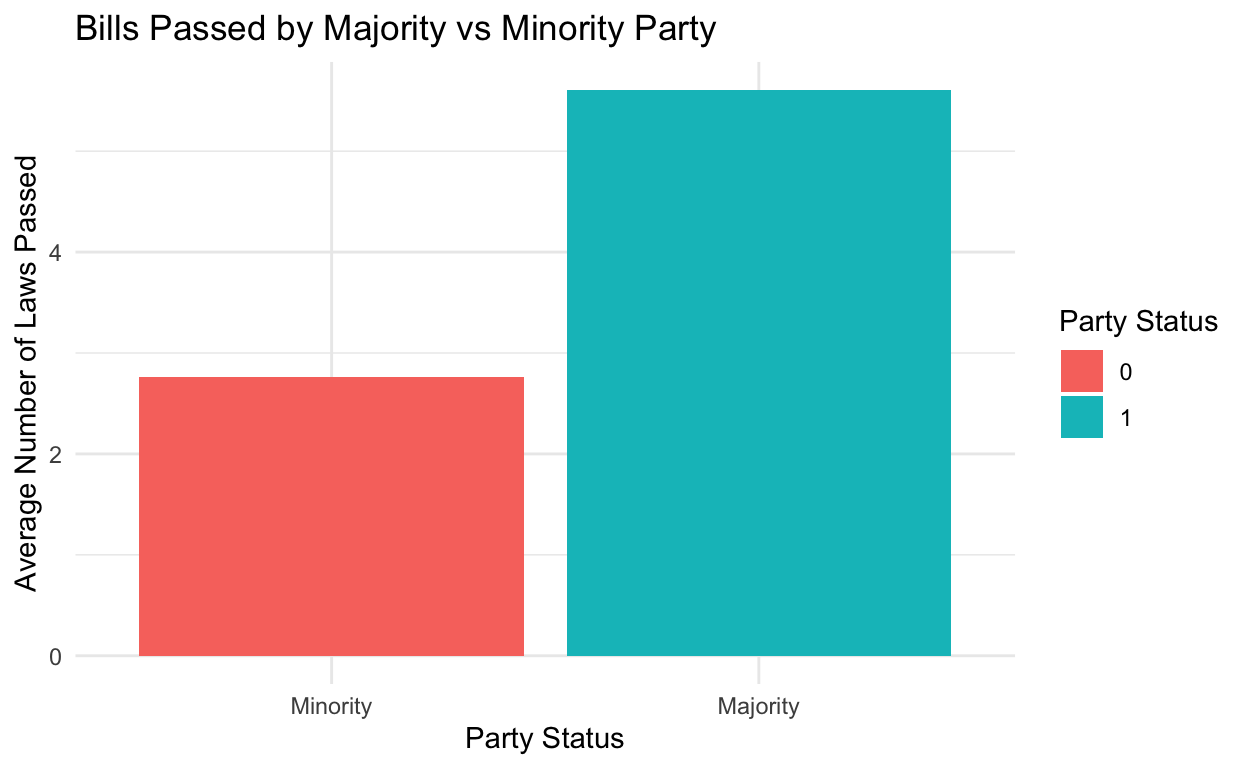
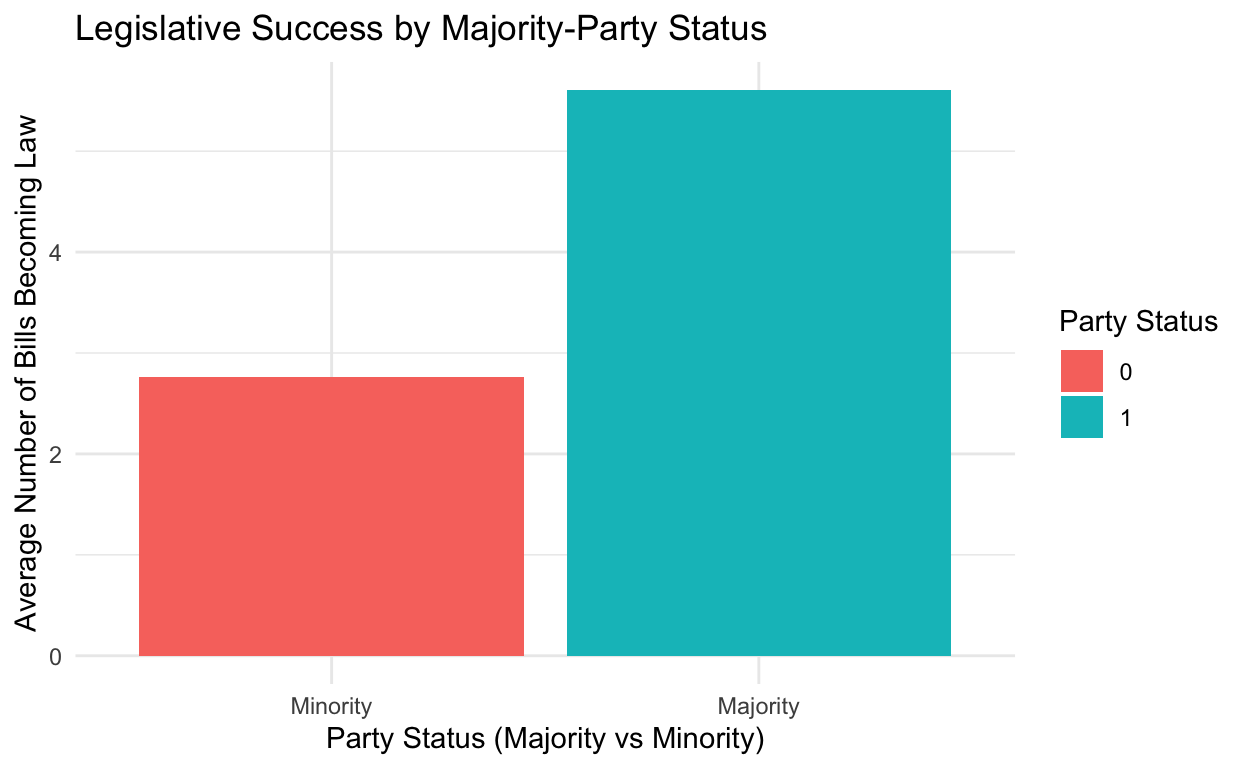
Milestone 4 progress

Changed region(s): [[0.0625, 0.0, 0.625, 0.0625], [0.0, 0.1562, 0.0312, 0.8125], [0.25, 0.9375, 0.625, 1.0]]

diff --git a/index.html b/index.html
@@ -1582,9 +1582,9 @@ code span.wa { color: #5e5e5e; font-style: italic; } /* Warning */
 <span><span class='fu'><a href='https://ggplot2.tidyverse.org/reference/ggplot.html'>ggplot</a></span><span class='op'>(</span><span class='va'>laws_passed</span>, <span class='fu'><a href='https://ggplot2.tidyverse.org/reference/aes.html'>aes</a></span><span class='op'>(</span>x <span class='op'>=</span> <span class='fu'><a href='https://rdrr.io/r/base/factor.html'>factor</a></span><span class='op'>(</span><span class='va'>`1 = majority party`</span><span class='op'>)</span>, y <span class='op'>=</span> <span class='va'>avg_bills</span>, fill <span class='op'>=</span> <span class='fu'><a href='https://rdrr.io/r/base/factor.html'>factor</a></span><span class='op'>(</span><span class='va'>`1 = majority party`</span><span class='op'>)</span><span class='op'>)</span><span class='op'>)</span> <span class='op'>+</span></span>
 <span>  <span class='fu'><a href='https://ggplot2.tidyverse.org/reference/geom_bar.html'>geom_col</a></span><span class='op'>(</span><span class='op'>)</span><span class='op'>+</span></span>
 <span>  <span class='fu'><a href='https://ggplot2.tidyverse.org/reference/labs.html'>labs</a></span><span class='op'>(</span></span>
-<span>    title <span class='op'>=</span> <span class='st'>"Bills Passed by Majority vs Minority Party"</span>,</span>
-<span>    x <span class='op'>=</span> <span class='st'>"Party Status"</span>,</span>
-<span>    y <span class='op'>=</span> <span class='st'>"Average Number of Laws Passed"</span>,</span>
+<span>    title <span class='op'>=</span> <span class='st'>"Legislative Success by Majority-Party Status"</span>,</span>
+<span>    x <span class='op'>=</span> <span class='st'>"Party Status (Majority vs Minority)"</span>,</span>
+<span>    y <span class='op'>=</span> <span class='st'>"Average Number of Bills Becoming Law"</span>,</span>
 <span>    fill <span class='op'>=</span> <span class='st'>"Party Status"</span></span>
 <span>  <span class='op'>)</span> <span class='op'>+</span></span>
 <span>  <span class='fu'><a href='https://ggplot2.tidyverse.org/reference/scale_discrete.html'>scale_x_discrete</a></span><span class='op'>(</span>labels <span class='op'>=</span> <span class='fu'><a href='https://rdrr.io/r/base/c.html'>c</a></span><span class='op'>(</span><span class='st'>"0"</span> <span class='op'>=</span> <span class='st'>"Minority"</span>, <span class='st'>"1"</span> <span class='op'>=</span> <span class='st'>"Majority"</span><span class='op'>)</span><span class='op'>)</span> <span class='op'>+</span></span>
@@ -1592,6 +1592,43 @@ code span.wa { color: #5e5e5e; font-style: italic; } /* Warning */
 </div>
 <p><img src="index_files/figure-html5/unnamed-chunk-2-1.png" alt="" width="624" /></p>
 </div>
+<div class="layout-chunk" data-layout="l-body">
+<div class="sourceCode">
+<pre class="sourceCode r"><code class="sourceCode r"><span><span class='kw'><a href='https://rdrr.io/r/base/library.html'>library</a></span><span class='op'>(</span><span class='va'><a href='https://broom.tidymodels.org/'>broom</a></span><span class='op'>)</span></span>
+<span><span class='va'>model_1</span> <span class='op'>&lt;-</span> <span class='fu'><a href='https://rdrr.io/r/stats/lm.html'>lm</a></span><span class='op'>(</span><span class='va'>`Number of bills becoming law`</span> <span class='op'>~</span> <span class='va'>`1 = majority party`</span>, data <span class='op'>=</span> <span class='va'>congress</span><span class='op'>)</span></span>
+<span><span class='fu'>knitr</span><span class='fu'>::</span><span class='fu'><a href='https://rdrr.io/pkg/knitr/man/kable.html'>kable</a></span><span class='op'>(</span><span class='fu'><a href='https://generics.r-lib.org/reference/tidy.html'>tidy</a></span><span class='op'>(</span><span class='va'>model_1</span><span class='op'>)</span><span class='op'>)</span></span></code></pre>
+</div>
+<table>
+<thead>
+<tr class="header">
+<th style="text-align: left;">term</th>
+<th style="text-align: right;">estimate</th>
+<th style="text-align: right;">std.error</th>
+<th style="text-align: right;">statistic</th>
+<th style="text-align: right;">p.value</th>
+</tr>
+</thead>
+<tbody>
+<tr class="odd">
+<td style="text-align: left;">(Intercept)</td>
+<td style="text-align: right;">2.758345</td>
+<td style="text-align: right;">0.0407300</td>
+<td style="text-align: right;">67.72274</td>
+<td style="text-align: right;">0</td>
+</tr>
+<tr class="even">
+<td style="text-align: left;"><code>1 = majority party</code></td>
+<td style="text-align: right;">2.846698</td>
+<td style="text-align: right;">0.0519762</td>
+<td style="text-align: right;">54.76927</td>
+<td style="text-align: right;">0</td>
+</tr>
+</tbody>
+</table>
+</div>
+<h3 id="write-up-and-analysis">Write Up and Analysis</h3>
+<p>The figure shows that members of the majority party sponsor more bills that become law on average compared to members of the minority party. This pattern is consistent with my hypothesis that institutional advantages, such as agenda control and leadership support, increase legislative success for majority-party members. However, while the difference appears meaningful, further analysis using regression is necessary to determine whether this relationship is statistically significant.</p>
+<p>The regression results show a strong relationship between majority-party status and legislative success. The coefficient on majority-party status is 2.847, which indicates that members of the majority party sponsor approximately 2.85 more bills that become law on average than members of the minority party. This suggests that majority-party membership is associated with substantially greater legislative success. This relationship is statistically significant (p &lt; 0.001), meaning it is highly unlikely to have occurred by chance.</p>
 <div class="sourceCode" id="cb2"><pre class="sourceCode r distill-force-highlighting-css"><code class="sourceCode r"></code></pre></div>
 <!--radix_placeholder_article_footer-->
 <!--/radix_placeholder_article_footer-->
